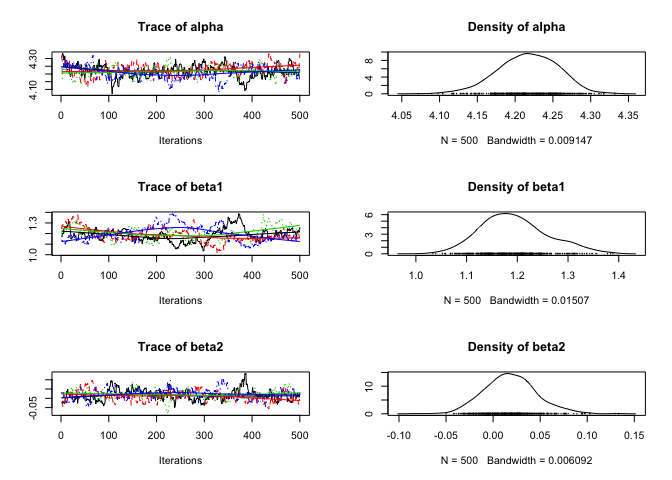
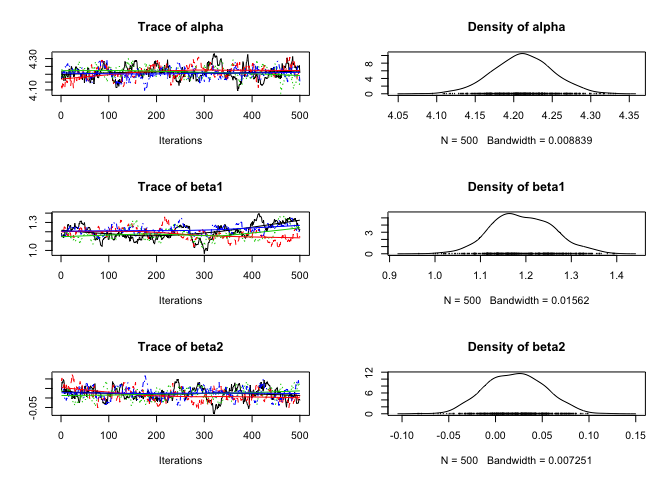
fixed issue 4 - recompile jags objects

diff --git a/README.md b/README.md
@@ -54,7 +54,7 @@ for (i in 1:length(Pairs)) {
   prediction[i] <- exp(alpha + beta1 * Year[i] + beta2 * Year[i]^2 + beta3 * Year[i]^3)
 }"
 
-model <- model(template, scale = "Year", new_expr = new_expr, monitor = "^(a|b|l)")
+model <- model(template, scale = "Year", new_expr = new_expr, fixed = "^(a|b|l)")
 
 analysis <- analyse(model, data = data)
 analysis <- reanalyse(analysis)
@@ -68,18 +68,18 @@ plot(analysis)
 
 glance(analysis)
 #> # A tibble: 1 × 6
-#>       n     k logLik    IC minutes converged
+#>       n     k logLik mAICc minutes converged
 #>   <int> <int>  <dbl> <dbl>   <int>     <lgl>
 #> 1    40     5     NA    NA       0      TRUE
 tidy(analysis)
 #> # A tibble: 5 × 5
 #>              term    estimate  std.error   statistic p.value
 #> *           <chr>       <dbl>      <dbl>       <dbl>   <dbl>
-#> 1           alpha  4.21748440 0.03946177 106.8589652  0.0005
-#> 2           beta1  1.18793417 0.06617626  18.0475643  0.0005
-#> 3           beta2  0.01777753 0.02777314   0.6595694  0.4960
-#> 4           beta3 -0.26891623 0.03436705  -7.9460382  0.0005
-#> 5 log_sDispersion -2.26675894 0.28366827  -8.0393583  0.0005
+#> 1           alpha  4.21213337 0.03852987 109.3084891  0.0005
+#> 2           beta1  1.19000034 0.06740250  17.7086604  0.0005
+#> 3           beta2  0.02146461 0.03128205   0.6776837  0.5300
+#> 4           beta3 -0.27204548 0.03355195  -8.1475111  0.0005
+#> 5 log_sDispersion -2.21011312 0.24186606  -9.1827626  0.0005
 
 year <- predict(analysis, new_data = new_data(data, "Year"))
 
